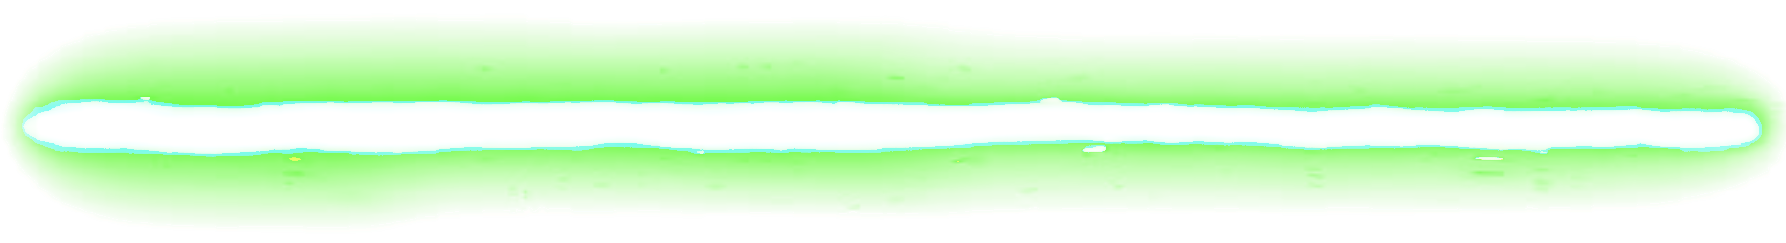
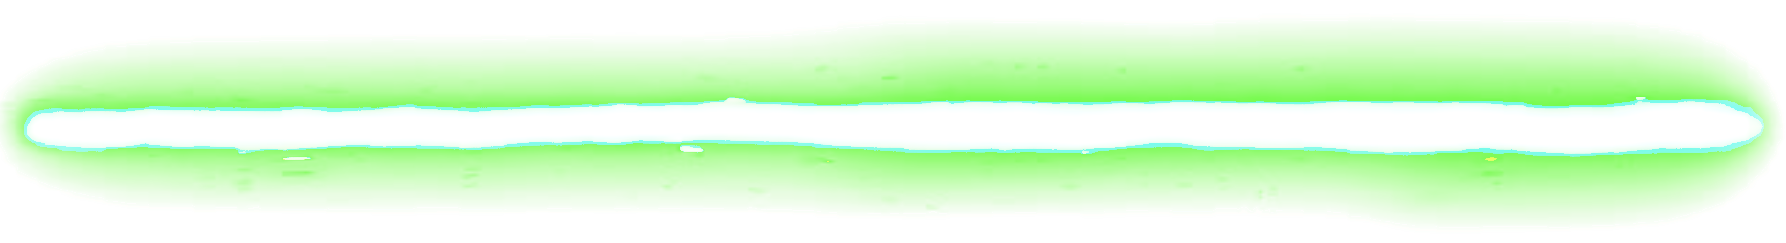
Added Jing's workshop item designs

diff --git a/docs/Menus/Workshop.js b/docs/Menus/Workshop.js
@@ -188,33 +188,31 @@ class Workshop {
         this.printAbilityLevel(inventory.laserLevel);
 
         push();
-        let size = width / 4;
+        let size = width / 1250;
         imageMode(CENTER);
-        translate(0.25*width, 0.65*height)
+        translate(0.245*width, 0.64*height);
 
         switch (inventory.laserLevel) {
             case 1:
+                image(shadow, 0, height/5, size*shadow.width/8, size*shadow.height/8);
                 rotate(-0.78);
-                image(fish, 0, 0, size/1.5, size/1.5);
+                image(fishWorkshop, 0, 0, size*fishWorkshop.width, size*fishWorkshop.height);
                 break;
             case 2:
-                rotate(-0.78);
-                image(snowball, 0, 0, size/1.5, size/1.5);
+                image(shadow, 0, height/5, size*shadow.width/8, size*shadow.height/8);
+                image(snowballWorkshop, 0, 0, size*snowballWorkshop.width/3, size*snowballWorkshop.height/3);
                 break;
             case 3:
-                rotate(-0.78);
-                image(arrow, 0, 0, size/1.5, size/10, 0, 0, 60, 9);
+                image(shadow, 0, height/5, size*shadow.width/8, size*shadow.height/15);
+                image(arrowWorkshop, 0, 0, size*arrowWorkshop.width/3.5, size*arrowWorkshop.height/3.5);
                 break;
             case 4:
-                rotate(2.357);
-                image(greenLaser, 0, 0, size, size/5);
+                rotate(-0.7);
+                image(greenLaser, 0, 10*size, size*greenLaser.width/4.5, size*greenLaser.height/4.5);
                 break;
             case 5:
-                rotate(2.357);
-                image(purpleLaser, size/10, size/6, size/2, size/6);
-                image(purpleLaser, size/3, size/20, size/2, size/6);
-                image(purpleLaser, -size/4, -size/30, size/2, size/6);
-                break
+                image(purpleLaser, 0, 0.03*height, size*purpleLaser.width/5, size*purpleLaser.height/5);
+                break;
         }
 
         pop();
@@ -233,6 +231,15 @@ class Workshop {
             text('MAX', width/2.15, height/2.37);
         }
         this.printAbilityLevel(inventory.flyLevel);
+
+        push();
+        let size = width / 3700;
+        imageMode(CENTER);
+        translate(0.245*width, 0.64*height);
+        image(shadow, 0, height/5, size*shadow.width/3, size*shadow.height/3);
+        image(flyingWorkshop, 0, 0, size*flyingWorkshop.width, size*flyingWorkshop.height);
+        pop();
+
     }
 
     showForceFieldDescription(){
@@ -246,6 +253,14 @@ class Workshop {
             text('MAX', width/2.15, height/2.37);
         }
         this.printAbilityLevel(inventory.forceFieldLevel);
+
+        push();
+        let size = width / 3800;
+        imageMode(CENTER);
+        translate(0.25*width, 0.66*height);
+        image(shadow, 0, height/5.5, size*shadow.width/3.5, size*shadow.height/3.5);
+        image(shieldWorkshop, 0, 0, size*shieldWorkshop.width, size*shieldWorkshop.height);
+        pop();
     }
 
     updateProjectileButton() {

diff --git a/docs/preload.js b/docs/preload.js
@@ -25,7 +25,18 @@ let workshopBackground = null;
 let tipsBox = null;
 let penguinClaw = null;
 
-let playerHeadFish, playerHeadSnowball, playerHeadArrow, playerHeadLaser, playerHeadGatling;
+let fishWorkshop = null;
+let snowballWorkshop = null;
+let arrowWorkshop = null;
+let flyingWorkshop = null;
+let shieldWorkshop = null;
+let shadow = null;
+
+let playerHeadFish = null;
+let playerHeadSnowball = null;
+let playerHeadArrow = null;
+let playerHeadLaser = null;
+let playerHeadGatling = null;
 
 
 // audio
@@ -239,6 +250,13 @@ function preload() {
     ufoArrowImpact = loadImage('assets/images/ufoArrowImpact.png');
     greenLaser = loadImage('assets/images/greenLaser.png');
     purpleLaser = loadImage('assets/images/purpleLaser.png');
+
+    fishWorkshop = loadImage('assets/images/fishWorkshop.png');
+    snowballWorkshop = loadImage('assets/images/snowballWorkshop.png');
+    arrowWorkshop = loadImage('assets/images/arrowWorkshop.png');
+    flyingWorkshop = loadImage('assets/images/flyingAbility.png');
+    shieldWorkshop = loadImage('assets/images/forceFieldAbility.png');
+    shadow = loadImage('assets/images/shadow.png');
 
     seagull = loadImage('assets/sprites/seagull.png');
     damagedSeagull = loadImage('assets/images/damagedSeagull.png');

diff --git a/docs/Player/Lives.js b/docs/Player/Lives.js
@@ -21,7 +21,7 @@ class Lives {
         this.timeLifeLost = millis();
         this.playingAnimation = true;
 
-        if (!domains.game.loseLifeSound.isPlaying()) {
+        if (!domains.game.loseLifeSound.isPlaying() && this.totalLives > 0) {
             domains.game.loseLifeSound.play();
         }
     }
